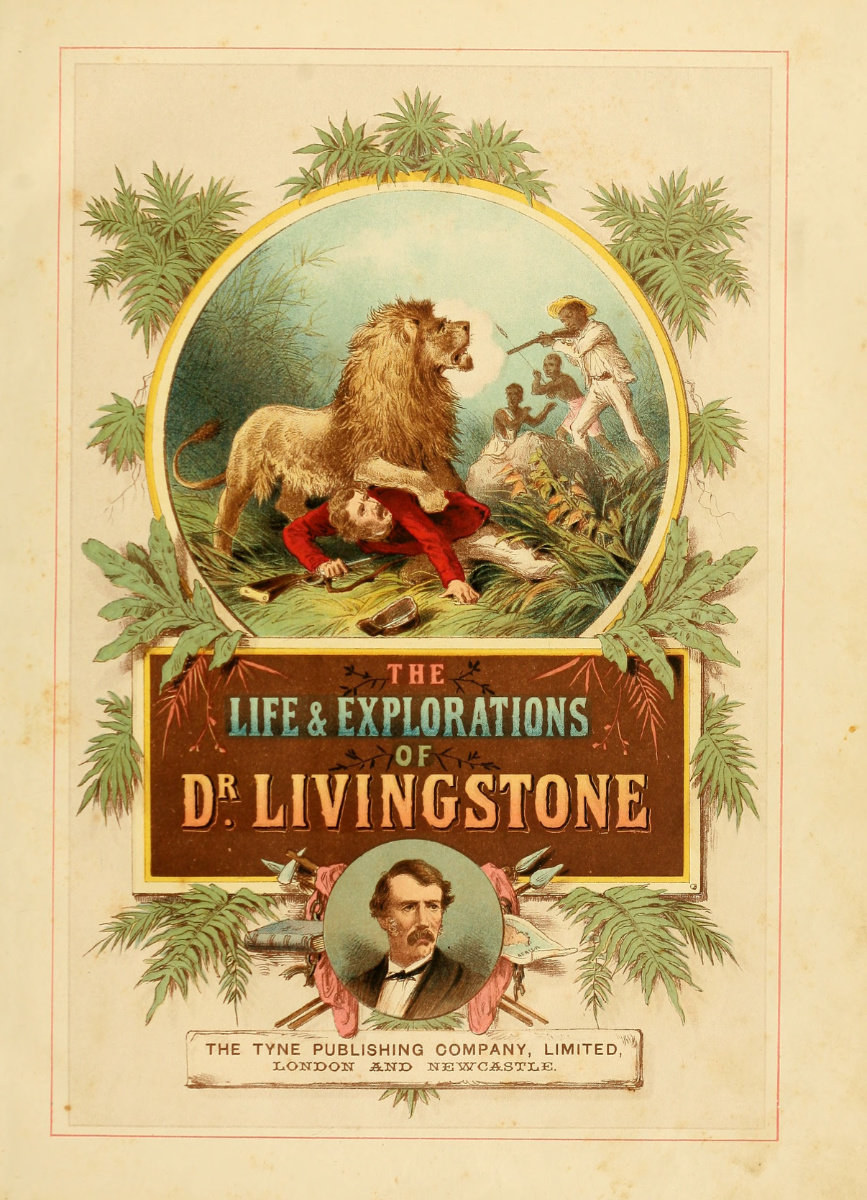
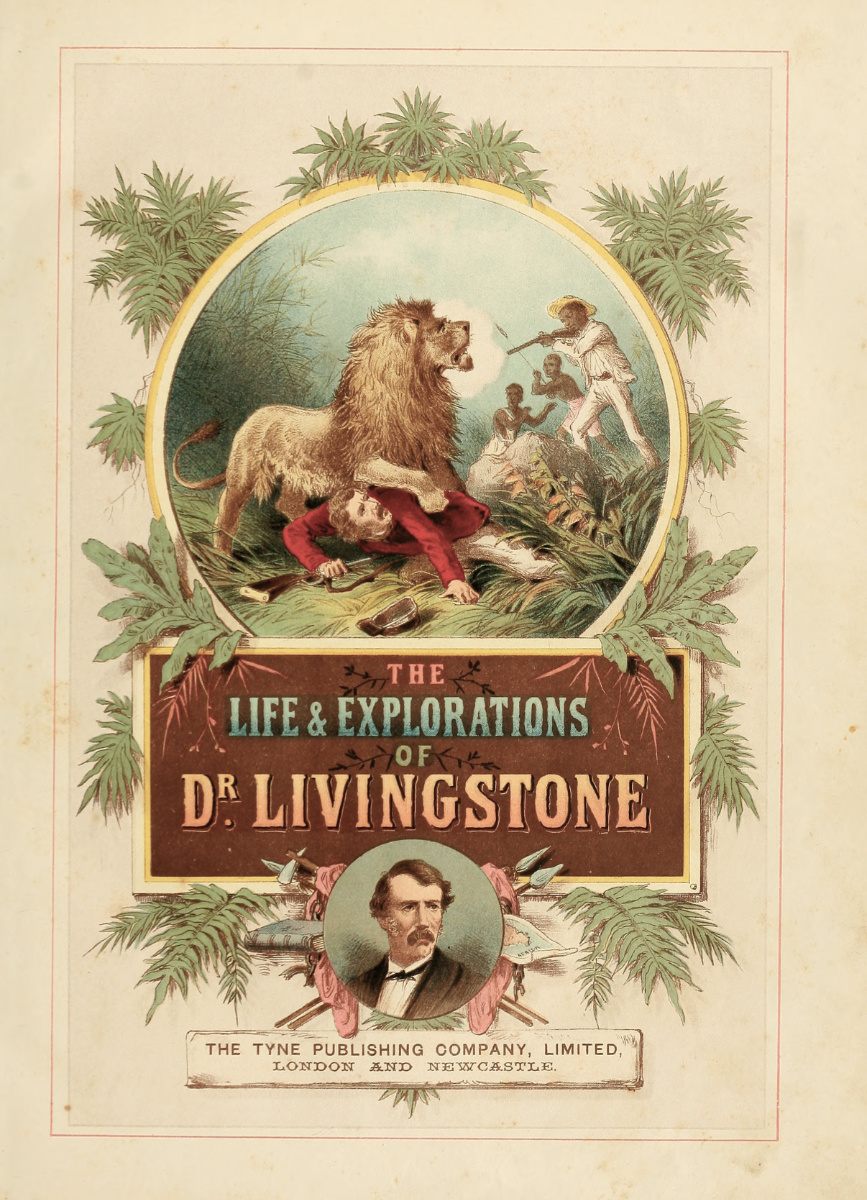
replaced de-yellowed images

diff --git a/Image Mockups for Adrian/Composing and Publishing MT 1/CP1 Mockup_JPGs 1200/0_mockup-composing 1-noText.html b/Image Mockups for Adrian/Composing and Publishing MT 1/CP1 Mockup_JPGs 1200/0_mockup-composing 1-noText.html
@@ -15,7 +15,7 @@
 			<p style="font:11px; font-family: Arial" align="left">Frontispiece. Illustration from John S. Roberts, The Life and Explorations of David Livingstone L. L. D. (London: John G. Murdoch, 1870), frontispiece. Courtesy of the Internet Archive. Although exploration was a scientific enterprise involving official reports and extensive documentation, geographical expeditions were also celebrated in popular culture. This image provides an example of how Livingstone, and African exploration more broadly, were mediated to the public in popular biography.</p><br/><br/>
 			
 			<img width="714px;" style="border:1px solid #000000;" src="liv_002713_0001-article-crop-1200.jpg"/>
-			<p style="font:11px; font-family: Arial" align="left">Detailed Map of the Revd. Dr. Livingstone's Route Across Africa, by John Arrowsmith. Fold out map from Missionary Travels and Researches in South Africa (Livingstone 1857aa:n.p.), detail. Courtesy of the Internet Archive. Producing published expeditionary narratives involved the expertise of multiple individuals. On the basis of Livingstone’s records, John Arrowsmith, one of Britain’s leading cartographers, prepared this map along with another tracing the route of the transcontinental journey for inclusion in Missionary Travels.</p><br/><br/>
+			<p style="font:11px; font-family: Arial" align="left">Detailed Map of the Revd. Dr. Livingstone's Route Across Africa, by John Arrowsmith. Fold out map from Missionary Travels and Researches in South Africa (Livingstone 1857aa:n.p.), detail. Original item held by Wellcome Institute for the History of Medicine. Library. Copyright Wellcome Library, London. Creative Commons Attribution 4.0 International. As relevant, copyright Dr. Neil Imray Livingstone Wilson. Creative Commons Attribution-NonCommercial 3.0 Unported. Producing published expeditionary narratives involved the expertise of multiple individuals. On the basis of Livingstone’s records, John Arrowsmith, one of Britain’s leading cartographers, prepared this map along with another tracing the route of the transcontinental journey for inclusion in Missionary Travels.</p><br/><br/>
 			
 			<img width="550px;" style="border:1px solid #000000;" src="liv_014057_0001-article-crop-1200.jpg"/><br/>
 			

diff --git a/Image Mockups for Adrian/JPGs for Upload/composing-publishing-missionary-travels-1/0_mockup-composing 1-noText.html b/Image Mockups for Adrian/JPGs for Upload/composing-publishing-missionary-travels-1/0_mockup-composing 1-noText.html
@@ -15,7 +15,7 @@
 			<p style="font:11px; font-family: Arial" align="left">Frontispiece. Illustration from John S. Roberts, The Life and Explorations of David Livingstone L. L. D. (London: John G. Murdoch, 1870), frontispiece. Courtesy of the Internet Archive. Although exploration was a scientific enterprise involving official reports and extensive documentation, geographical expeditions were also celebrated in popular culture. This image provides an example of how Livingstone, and African exploration more broadly, were mediated to the public in popular biography.</p><br/><br/>
 			
 			<img width="714px;" style="border:1px solid #000000;" src="liv_002713_0001-article-crop-1200.jpg"/>
-			<p style="font:11px; font-family: Arial" align="left">Detailed Map of the Revd. Dr. Livingstone's Route Across Africa, by John Arrowsmith. Fold out map from Missionary Travels and Researches in South Africa (Livingstone 1857aa:n.p.), detail. Courtesy of the Internet Archive. Producing published expeditionary narratives involved the expertise of multiple individuals. On the basis of Livingstone’s records, John Arrowsmith, one of Britain’s leading cartographers, prepared this map along with another tracing the route of the transcontinental journey for inclusion in Missionary Travels.</p><br/><br/>
+			<p style="font:11px; font-family: Arial" align="left">Detailed Map of the Revd. Dr. Livingstone's Route Across Africa, by John Arrowsmith. Fold out map from Missionary Travels and Researches in South Africa (Livingstone 1857aa:n.p.), detail. Original item held by Wellcome Institute for the History of Medicine. Library. Copyright Wellcome Library, London. Creative Commons Attribution 4.0 International. As relevant, copyright Dr. Neil Imray Livingstone Wilson. Creative Commons Attribution-NonCommercial 3.0 Unported. Producing published expeditionary narratives involved the expertise of multiple individuals. On the basis of Livingstone’s records, John Arrowsmith, one of Britain’s leading cartographers, prepared this map along with another tracing the route of the transcontinental journey for inclusion in Missionary Travels.</p><br/><br/>
 			
 			<img width="550px;" style="border:1px solid #000000;" src="liv_014057_0001-article-crop-1200.jpg"/><br/>
 			
